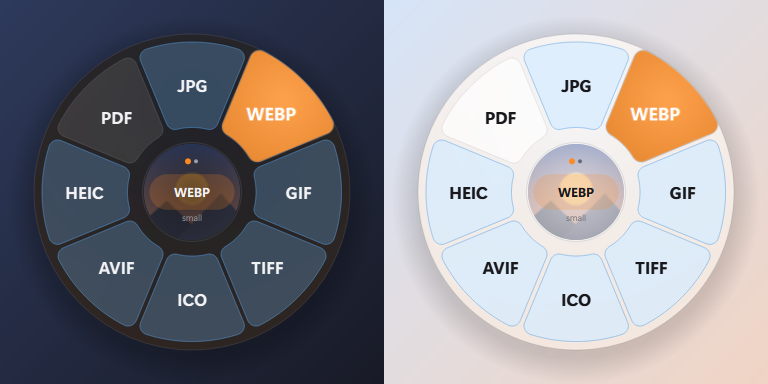
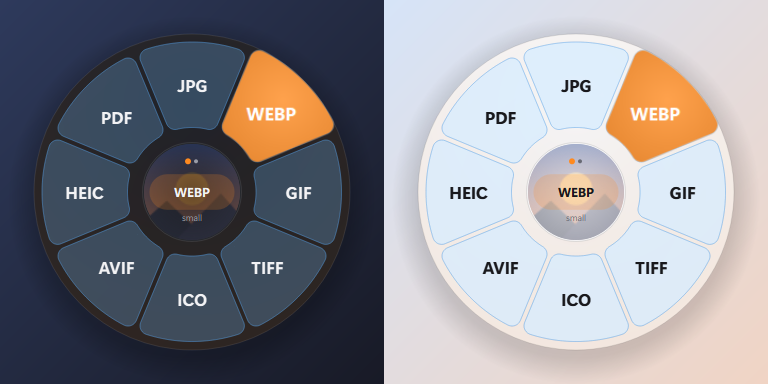
Satsuma 1.9.1
- Fix the PDF wedge looking greyed out next to the tinted image formats:
  the Convert ring now takes one colour from the file you drag (photos
  blue, videos purple, audio green, PDFs coral, documents teal), so every
  convert wedge matches. Tools stay neutral

Changed region(s): [[0.5625, 0.1562, 0.7188, 0.4375], [0.0625, 0.1562, 0.2188, 0.4375]]

diff --git a/satsuma/ui/radial.py b/satsuma/ui/radial.py
@@ -36,17 +36,16 @@ CORNER = 9.0        # wedge corner radius (px at 100 %)
 STAGGER = 0.024     # seconds between wedges appearing
 HUB_SETTLE = 0.35   # resting this long on the centre (where the ring opened) arms the ring swap
 
-# Subtle tints for convert wedges, by what they produce (only when "type_colors" is on).
-# Documents and PDFs stay neutral: a gold PDF wedge stood out too much in a ring of image formats.
-TYPE_TINTS = {ft.IMAGE: QColor(56, 160, 255), ft.VIDEO: QColor(168, 104, 255), ft.AUDIO: QColor(52, 199, 120)}
+# A subtle tint on every convert wedge, by the kind of file being dragged (when "type_colors" is on).
+# The whole Convert ring shares one colour, so no wedge looks greyed out next to the others.
+TYPE_TINTS = {ft.IMAGE: QColor(56, 160, 255), ft.VIDEO: QColor(168, 104, 255), ft.AUDIO: QColor(52, 199, 120),
+              ft.PDF: QColor(255, 108, 92), ft.DOCUMENT: QColor(64, 196, 210)}
+DEFAULT_TINT = TYPE_TINTS[ft.IMAGE]
 
 
-def result_kind(action: Action) -> str | None:
-    """The kind of file a convert action makes ("image", "video", ...), from its label."""
-    if action.group != "convert" or not action.label.isalnum():
-        return None
-    kind = ft.category_of(Path(f"x.{action.label.lower()}"))
-    return kind if kind in TYPE_TINTS else None
+def ring_tint(paths) -> QColor:
+    """The Convert ring's colour for these files."""
+    return TYPE_TINTS.get(ft.category_for(paths), DEFAULT_TINT) if paths else DEFAULT_TINT
 
 
 @dataclass
@@ -483,14 +482,13 @@ class RadialView:
         else:
             painter.setPen(QPen(QColor(255, 255, 255, 26) if dark else QColor(0, 0, 0, 18), 1.0))
             fill = QColor(255, 255, 255, 24) if dark else QColor(255, 255, 255, 175)
-            kind = result_kind(wedge.action) if settings.get("type_colors") else None
-            if kind:
-                tint = QColor(TYPE_TINTS[kind])
+            if settings.get("type_colors") and wedge.action.group == "convert":
+                colour = ring_tint(self.paths)
+                tint = QColor(colour)
                 tint.setAlpha(46 if dark else 38)
                 painter.setBrush(fill)
                 painter.drawPath(path)
-                painter.setPen(QPen(QColor(TYPE_TINTS[kind].red(), TYPE_TINTS[kind].green(),
-                                           TYPE_TINTS[kind].blue(), 90), 1.0))
+                painter.setPen(QPen(QColor(colour.red(), colour.green(), colour.blue(), 90), 1.0))
                 fill = tint
             painter.setBrush(fill)
             fg = pal.text

diff --git a/tests/test_visuals.py b/tests/test_visuals.py
@@ -28,12 +28,23 @@ def test_size_change_wording():
 
 
 def test_wedge_tints_follow_what_an_action_makes(workdir):
-    from satsuma.ui.radial import result_kind
+    """Every convert wedge in a ring shares one tint (none looks greyed out); tools stay neutral."""
+    from satsuma.ui.radial import RadialView, ring_tint
+    from satsuma.ui.theme import palette
 
-    by_id = {a.id: a for a in actions.actions_for([workdir / "photo.jpg"], customise=False)}
-    assert result_kind(by_id["img-png"]) == "image"
-    assert result_kind(by_id["img-pdf"]) is None                   # documents stay neutral (no yellow)
-    assert result_kind(by_id["img-compress"]) is None               # tools stay neutral
+    assert ring_tint([workdir / "photo.jpg"]) != ring_tint([workdir / "clip.mp4"])
+    view = RadialView()
+    view.set_paths([workdir / "photo.jpg"], animate=False)
+    pal = palette()
+
+    def centre_colour(action_id):
+        wedge = next(w for w in view.wedges if w.action.id == action_id)
+        count = len(view.page_wedges(wedge.page))
+        image = view._wedge_sprite(wedge, count, False, pal, True, 1.0, label=False)[0].toImage()
+        return image.pixelColor(image.rect().center())
+
+    assert centre_colour("img-pdf") == centre_colour("img-png") == centre_colour("img-webp")
+    assert centre_colour("img-compress") != centre_colour("img-png")
 
 
 def test_thumbnails(qapp, workdir, tmp_path):

diff --git a/satsuma/ui/settings_window.py b/satsuma/ui/settings_window.py
@@ -386,7 +386,7 @@ class SettingsWindow(QDialog):
         shape.add("First ring", "Which ring opens first",
                   _segmented((("convert", "Convert"), ("tools", "Tools")), "start_page"))
         shape.add("Icons on tool wedges", "", _toggle("show_icons"))
-        shape.add("Colour by file type", "Images blue, video purple, audio green",
+        shape.add("Colour by file type", "The Convert ring takes a colour from the file: photos blue, videos purple…",
                   _toggle("type_colors"))
 
         motion = self._section(layout, "Motion")

diff --git a/satsuma/config.py b/satsuma/config.py
@@ -8,7 +8,7 @@ from pathlib import Path
 
 APP_NAME = "Satsuma"
 APP_ID = "satsuma.win"
-VERSION = "1.9.0"
+VERSION = "1.9.1"
 
 
 def _base_dir() -> Path:

diff --git a/README.md b/README.md
@@ -102,7 +102,7 @@ Right-click the tray icon → **Settings…** It follows your theme and accent c
 
 - **Appearance** — with a live preview you can hover and click: theme (Windows / light / dark),
   accent colour, how see-through the ring is, size, wedges per ring, which ring opens first,
-  animation speed and bounce, what the centre shows, icons, colour-coding wedges by file type,
+  animation speed and bounce, what the centre shows, icons, a colour for the Convert ring by file type,
   and the explanation bubbles.
 - **Ring actions** — for each kind of file, tick what appears in the ring and drag to reorder,
   with a live preview of that ring.
